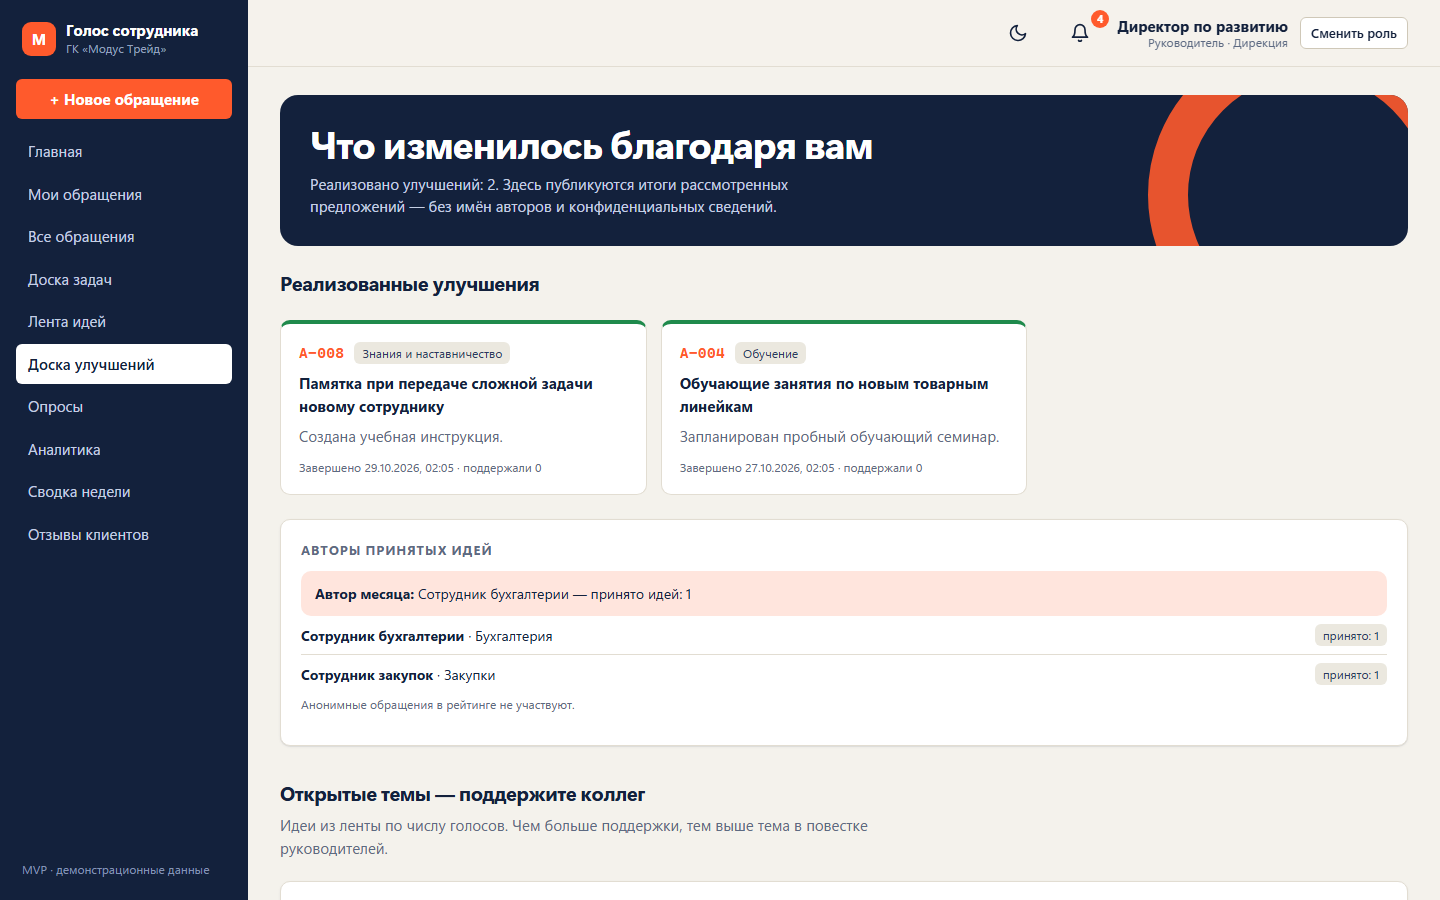
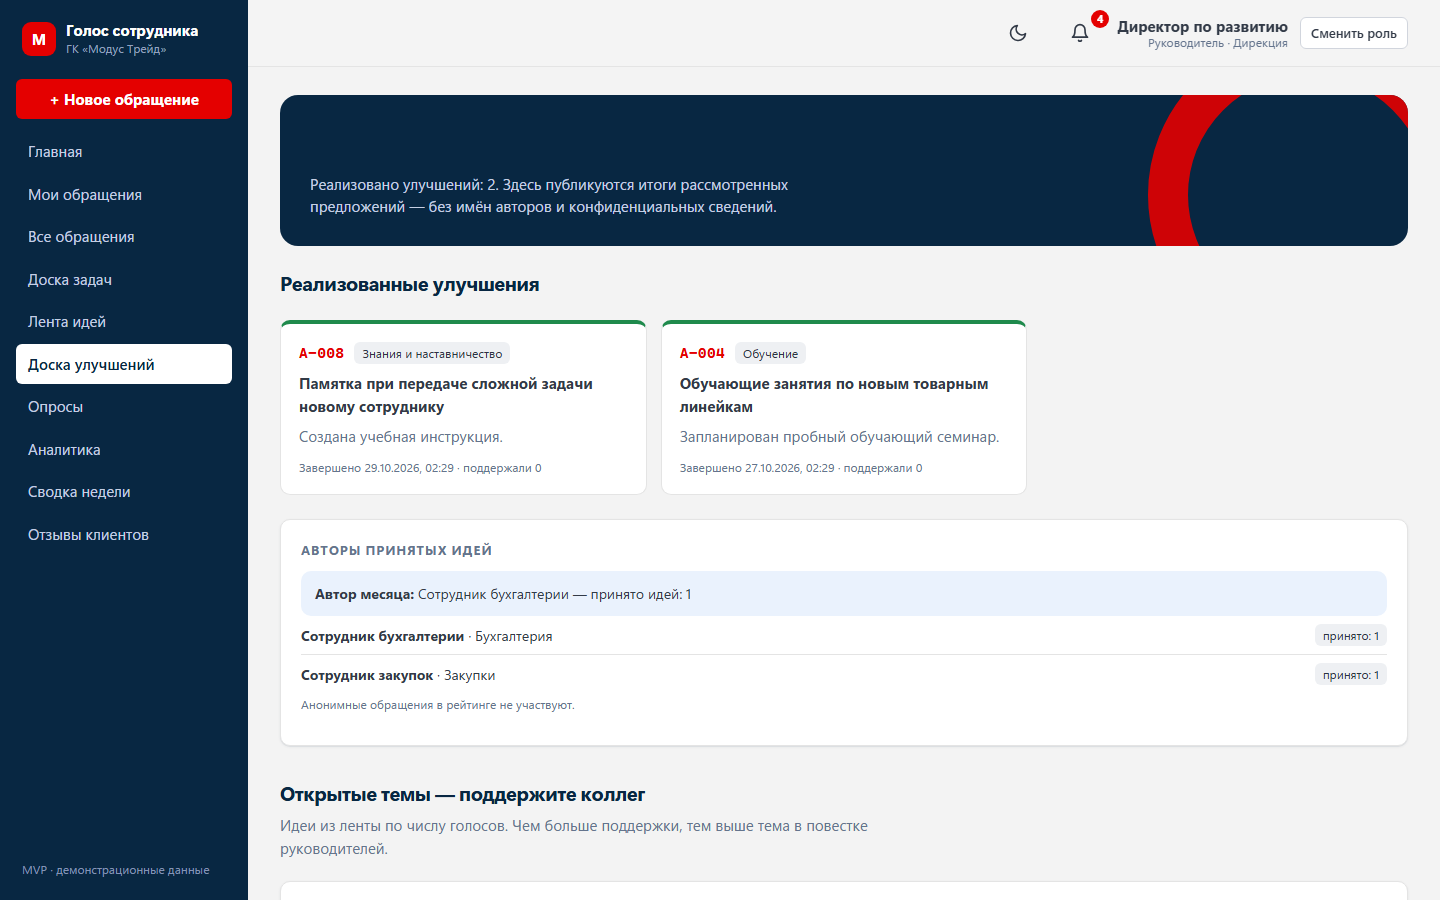
style: палитра официального сайта ГК «Модус Трейд»
Тёмно-синий #082742, фирменный красный #E40000, графитовый текст и светло-серые фоны в светлой и тёмной теме; цвета графиков проверены на различимость; мгновенная смена темы; скриншоты обновлены.

diff --git a/public/css/styles.css b/public/css/styles.css
@@ -1,24 +1,24 @@
-/* Направление: швейцарский/редакционный стиль — тёплая «бумага», глубокий тёмно-синий,
-   сигнальный оранжевый (отрасль систем безопасности), моноширинные номера обращений. */
+/* Палитра официального сайта ГК «Модус Трейд» (modus-trade.kz): тёмно-синий логотипа #082742,
+   фирменный красный #E40000 для ключевых действий, графитовый текст, светло-серые фоны. */
 :root {
-  --text: #13213c;
-  --brand: #13213c;
-  --side-bg: #13213c;
-  --surface-2: #faf9f5;
-  --chip-bg: #ebe8df;
-  --series-1: #2a78d6;
-  --series-2: #eb6834;
-  --ink-2: #2a3a5c;
-  --muted: #5d6a82;
-  --paper: #f4f2ec;
+  --text: #323a47;
+  --brand: #082742;
+  --side-bg: #082742;
+  --surface-2: #f7f7f7;
+  --chip-bg: #eef0f3;
+  --series-1: #2f80ed;
+  --series-2: #e40000;
+  --ink-2: #2c333f;
+  --muted: #64748d;
+  --paper: #f3f3f3;
   --surface: #ffffff;
-  --line: #e2ddd2;
-  --line-strong: #cfc8b8;
-  --signal: #ff5a2c;
-  --signal-soft: color-mix(in srgb, var(--signal) 16%, var(--surface));
-  --focus: #2f6bff;
+  --line: #e4e4e4;
+  --line-strong: #d1d5dd;
+  --signal: #e40000;
+  --signal-soft: color-mix(in srgb, var(--st-new) 10%, var(--surface));
+  --focus: #2f80ed;
 
-  --st-new: #2f6bff;
+  --st-new: #2f80ed;
   --st-review: #7a4dd8;
   --st-info: #c98a00;
   --st-work: #0f8f86;
@@ -26,20 +26,21 @@
   --st-rejected: #b03a2e;
   --st-closed: #6b7280;
 
-  --danger: #c4321f;
+  --danger: #b91c1c;
   --danger-soft: color-mix(in srgb, var(--danger) 14%, var(--surface));
 
-  --font-display: "Segoe UI Variable Display", "Segoe UI", "SF Pro Display", "Helvetica Neue", Arial, sans-serif;
-  --font-text: "Segoe UI Variable Text", "Segoe UI", "SF Pro Text", "Helvetica Neue", Arial, sans-serif;
+  --font-display: "Gilroy", "Segoe UI Variable Display", "Segoe UI", "SF Pro Display", "Helvetica Neue", Arial, sans-serif;
+  --font-text: "Gilroy", "Segoe UI Variable Text", "Segoe UI", "SF Pro Text", "Helvetica Neue", Arial, sans-serif;
   --font-mono: "Cascadia Mono", "SF Mono", Consolas, ui-monospace, monospace;
 
   --r-sm: 6px;
   --r-md: 10px;
   --r-lg: 18px;
-  --shadow-1: 0 1px 0 rgba(19, 33, 60, .06), 0 1px 3px rgba(19, 33, 60, .06);
-  --shadow-2: 0 10px 30px -12px rgba(19, 33, 60, .28);
+  --shadow-1: 0 1px 0 rgba(8, 39, 66, .05), 0 1px 3px rgba(8, 39, 66, .07);
+  --shadow-2: 0 10px 30px -12px rgba(8, 39, 66, .3);
   --ease: cubic-bezier(.16, 1, .3, 1);
   --fast: 150ms;
+  --heading: #082742;
 }
 
 * { box-sizing: border-box; }
@@ -52,6 +53,7 @@ body {
   -webkit-font-smoothing: antialiased;
 }
 h1, h2, h3 { font-family: var(--font-display); letter-spacing: -.02em; margin: 0; }
+h1, h2 { color: var(--heading); }
 h1 { font-size: clamp(26px, 2.2vw + 14px, 38px); line-height: 1.1; font-weight: 700; }
 h2 { font-size: 20px; font-weight: 650; }
 h3 { font-size: 13px; font-weight: 700; text-transform: uppercase; letter-spacing: .08em; color: var(--muted); }
@@ -80,9 +82,9 @@ button, input, select, textarea { font: inherit; color: inherit; }
   transition: background var(--fast) var(--ease), color var(--fast);
 }
 .nav a:hover { background: rgba(255, 255, 255, .07); color: #fff; }
-.nav a.active { background: #fff; color: #13213c; font-weight: 600; }
+.nav a.active { background: #fff; color: #082742; font-weight: 600; }
 .nav .nav-cta { background: var(--signal); color: #fff; font-weight: 650; margin-bottom: 10px; justify-content: center; }
-.nav .nav-cta:hover { background: #ff7149; }
+.nav .nav-cta:hover { background: #c40000; }
 .nav .nav-cta.active { background: var(--signal); color: #fff; box-shadow: 0 0 0 2px #fff inset; }
 .side-foot { margin-top: auto; font-size: 12px; color: #8494b5; padding: 0 6px; }
 
@@ -111,7 +113,7 @@ button, input, select, textarea { font: inherit; color: inherit; }
 .btn-primary { background: var(--brand); border-color: var(--brand); color: #fff; }
 .btn-primary:hover { background: var(--ink-2); }
 .btn-signal { background: var(--signal); border-color: var(--signal); color: #fff; }
-.btn-signal:hover { background: #ff7149; border-color: #ff7149; }
+.btn-signal:hover { background: #c40000; border-color: #c40000; }
 .btn-ghost { background: transparent; border-color: transparent; }
 .btn-ghost:hover { background: color-mix(in srgb, var(--text) 8%, transparent); border-color: transparent; }
 .btn-sm { padding: 5px 10px; font-size: 13px; }
@@ -183,7 +185,7 @@ textarea { resize: vertical; min-height: 96px; }
 .type-card input { position: absolute; opacity: 0; pointer-events: none; }
 .type-card b { display: block; font-family: var(--font-display); font-size: 16px; }
 .type-card span { font-size: 13px; color: var(--muted); }
-.type-card.selected { border-color: var(--text); box-shadow: 0 0 0 3px rgba(19, 33, 60, .1); }
+.type-card.selected { border-color: var(--text); box-shadow: 0 0 0 3px rgba(8, 39, 66, .1); }
 .type-card:focus-within { outline: 2px solid var(--focus); outline-offset: 2px; }
 .anon-box { border: 1px dashed var(--line-strong); border-radius: var(--r-md); padding: 12px 14px; background: var(--surface-2); }
 .similar-item { padding: 12px 0; border-top: 1px solid var(--line); }
@@ -269,7 +271,7 @@ textarea { resize: vertical; min-height: 96px; }
 .notif-panel a:hover { background: var(--surface-2); }
 .notif-panel a.unread { box-shadow: inset 3px 0 0 var(--signal); font-weight: 600; }
 .toasts { position: fixed; bottom: 20px; right: 20px; display: flex; flex-direction: column; gap: 8px; z-index: 50; }
-.toast { background: #1d2b4a; color: #fff; padding: 12px 16px; border-radius: var(--r-md); box-shadow: var(--shadow-2); max-width: 380px; animation: toast-in 250ms var(--ease); transition: opacity 400ms, transform 400ms; }
+.toast { background: #2c333f; color: #fff; padding: 12px 16px; border-radius: var(--r-md); box-shadow: var(--shadow-2); max-width: 380px; animation: toast-in 250ms var(--ease); transition: opacity 400ms, transform 400ms; }
 .toast-error { background: var(--danger); }
 .toast-success { background: var(--st-done); }
 .toast-hide { opacity: 0; transform: translateY(8px); }
@@ -306,34 +308,35 @@ textarea { resize: vertical; min-height: 96px; }
 /* ---------- Тёмная тема: свои ступени тех же ролей, а не автоматическая инверсия ---------- */
 :root[data-theme="dark"] {
   color-scheme: dark;
-  --text: #e6eaf3;
-  --ink-2: #c3cbdb;
-  --muted: #94a0b8;
-  --paper: #0f1626;
-  --surface: #172033;
-  --surface-2: #1d2942;
-  --chip-bg: #26334f;
-  --line: #26324a;
-  --line-strong: #3a4a69;
-  --brand: #3d63c9;
-  --side-bg: #0a111f;
-  --signal: #ff7448;
-  --focus: #6f9bff;
-  --st-new: #7aa5ff;
+  --text: #e7ecf3;
+  --ink-2: #c5cfdc;
+  --muted: #93a3ba;
+  --paper: #0b1a2b;
+  --surface: #12233a;
+  --surface-2: #182c46;
+  --chip-bg: #22385a;
+  --line: #1f3350;
+  --line-strong: #34507a;
+  --brand: #2f6fd6;
+  --side-bg: #061424;
+  --signal: #ef3030;
+  --focus: #5b9cf2;
+  --st-new: #6aa6f5;
   --st-review: #b294f2;
   --st-info: #e5b53b;
   --st-work: #3fc4ba;
   --st-done: #4cc27f;
   --st-rejected: #f08273;
   --st-closed: #a3adbd;
-  --danger: #e2553f;
-  --series-1: #3987e5;
-  --series-2: #d95926;
+  --danger: #f05252;
+  --series-1: #3b82e6;
+  --series-2: #ef3030;
   --shadow-1: 0 1px 0 rgba(0, 0, 0, .3);
   --shadow-2: 0 12px 32px -12px rgba(0, 0, 0, .7);
+  --heading: #ffffff;
 }
-:root[data-theme="dark"] .btn-primary:hover { background: #4d74dd; }
-:root[data-theme="dark"] .toast { background: #26334f; }
+:root[data-theme="dark"] .btn-primary:hover { background: #3f80e6; }
+:root[data-theme="dark"] .toast { background: #22385a; }
 
 /* ---------- Иконки, выбор файла, диалог ---------- */
 .icon { display: block; flex: none; }
@@ -528,3 +531,6 @@ input[type=date] { border: 1px solid var(--line-strong); background: var(--surfa
   /* Кнопка отправки обращения всегда под рукой на телефоне. */
   form.card.stack > .row:last-child { position: sticky; bottom: 0; background: var(--surface); padding: 10px 0; margin-bottom: -10px; z-index: 3; }
 }
+
+/* Во время смены темы переходы отключены, чтобы цвета менялись сразу. */
+.theme-switching *, .theme-switching *::before, .theme-switching *::after { transition: none !important; }

diff --git a/public/js/app.js b/public/js/app.js
@@ -103,7 +103,12 @@ function themeToggle() {
     class: 'btn btn-ghost', 'aria-label': 'Переключить светлую и тёмную тему', title: 'Светлая / тёмная тема',
     onclick: () => {
       const next = isDark() ? 'light' : 'dark';
-      document.documentElement.dataset.theme = next;
+      // Смена темы мгновенная: без этого кнопки и карточки «доезжали» бы до новых цветов анимацией.
+      const rootEl = document.documentElement;
+      rootEl.classList.add('theme-switching');
+      rootEl.dataset.theme = next;
+      void rootEl.offsetWidth;
+      requestAnimationFrame(() => rootEl.classList.remove('theme-switching'));
       try {
         localStorage.setItem('theme', next);
       } catch {
